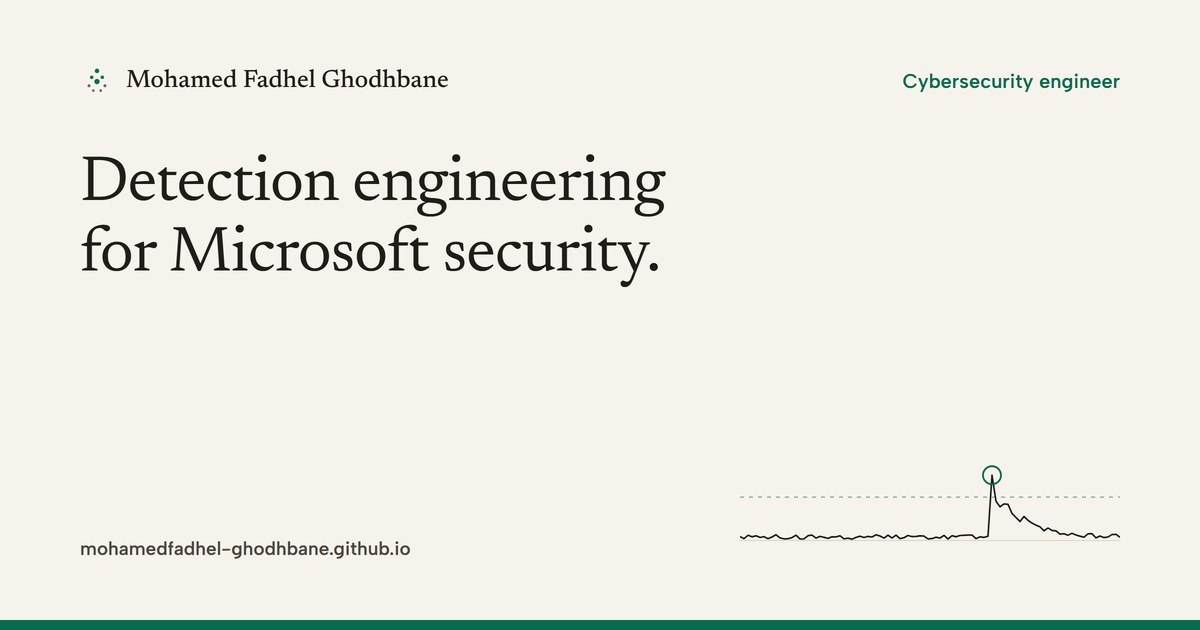
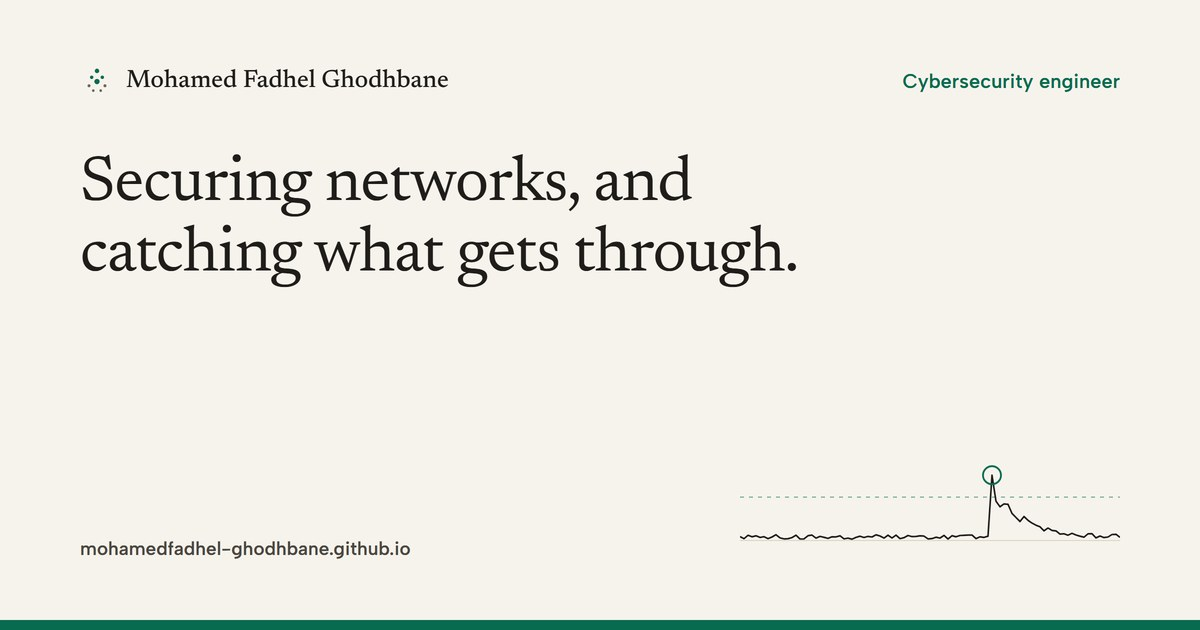
Broaden the site beyond Sentinel to network security and architecture
- Headline: "Securing networks, and catching what gets through.", with
  an intro and What I do text that cover firewalls, WAF and
  architecture as well as detection and response.
- New services: Network security and firewalls, Security architecture;
  hardening becomes Cloud hardening and compliance.
- Tools add Forcepoint SMC and VMware NSX-T; Fortinet NGFW joins the
  highlighted core tools.
- Contact heading: "Need a security engineer?"
- Page description, structured data, preview card and the article
  author note follow the new positioning.

Changed region(s): [[0.0617, 0.2413, 0.6783, 0.4524]]

diff --git a/src/lib/site.ts b/src/lib/site.ts
@@ -9,7 +9,7 @@ export const BASE = import.meta.env.BASE_URL.replace(/\/?$/, '/');
 export const HOME = new URL(BASE, import.meta.env.SITE).href;
 export const PERSON_ID = `${HOME}#person`;
 export const OG_IMAGE = new URL(`${BASE}og-default.jpg`, import.meta.env.SITE).href;
-export const OG_IMAGE_ALT = 'Mohamed Fadhel Ghodhbane, cybersecurity engineer: detection engineering for Microsoft security.';
+export const OG_IMAGE_ALT = 'Mohamed Fadhel Ghodhbane, cybersecurity engineer: securing networks, and catching what gets through.';
 
 // words in the markdown source, minus image and link syntax; code counts, since readers read it too
 export function wordCount(body = ''): number {
